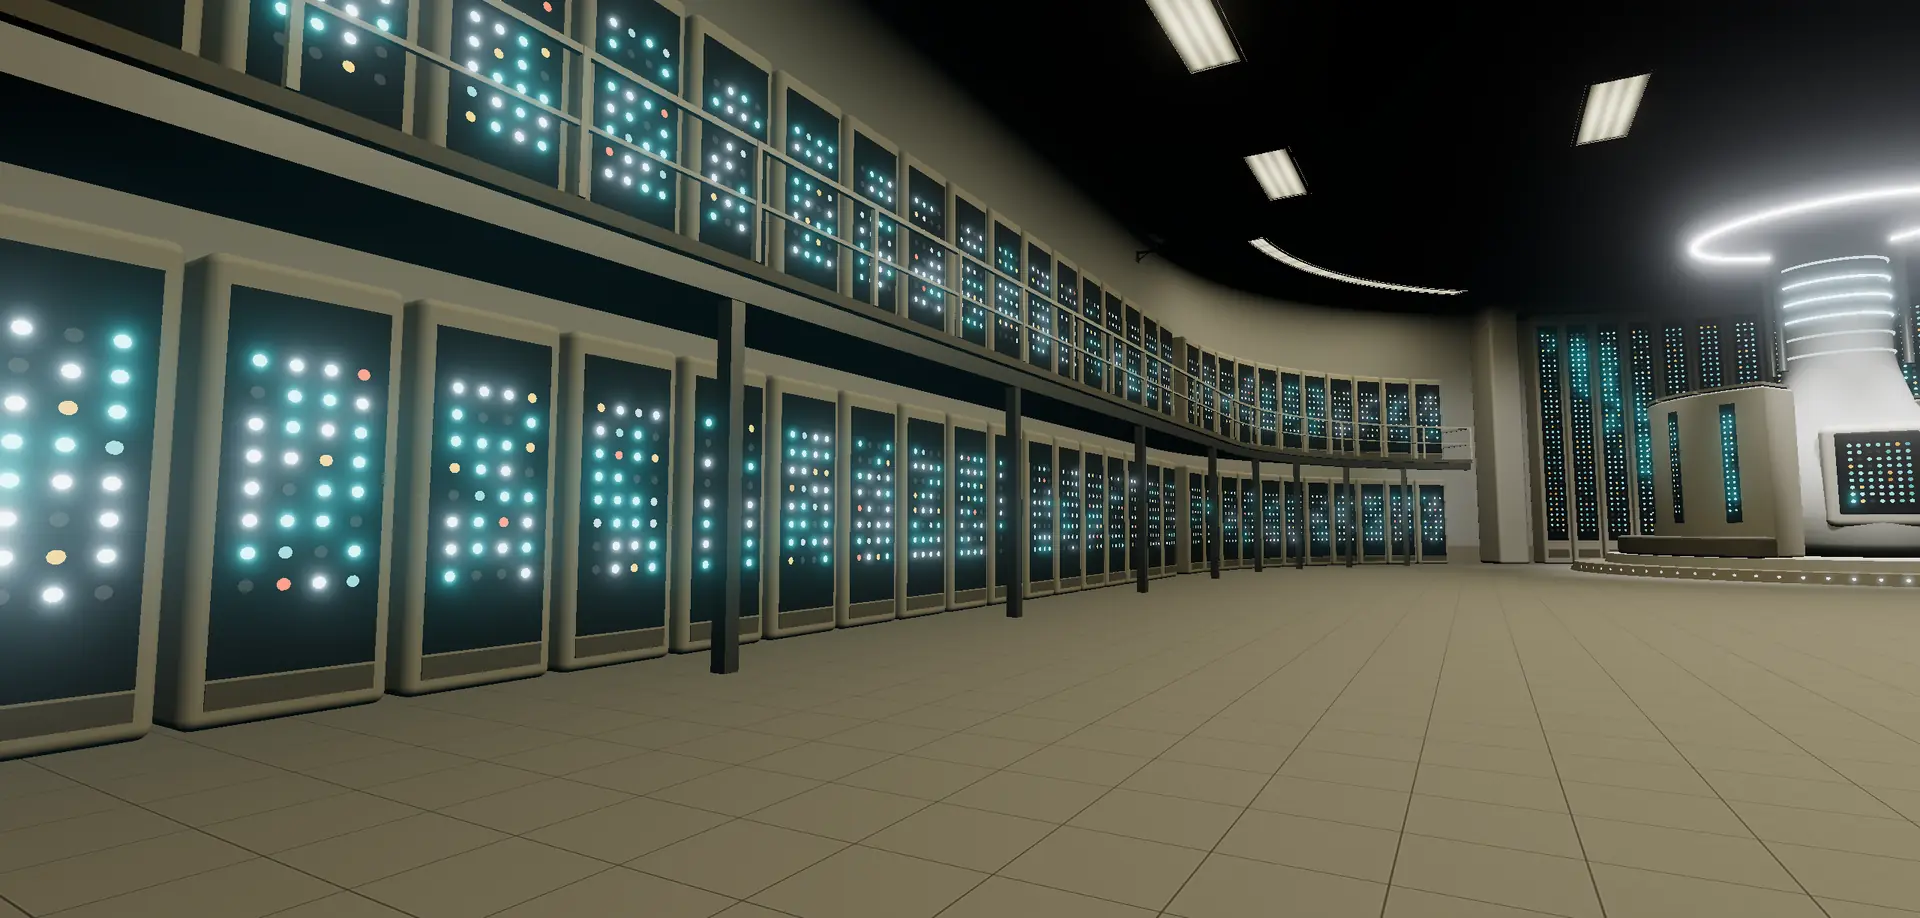
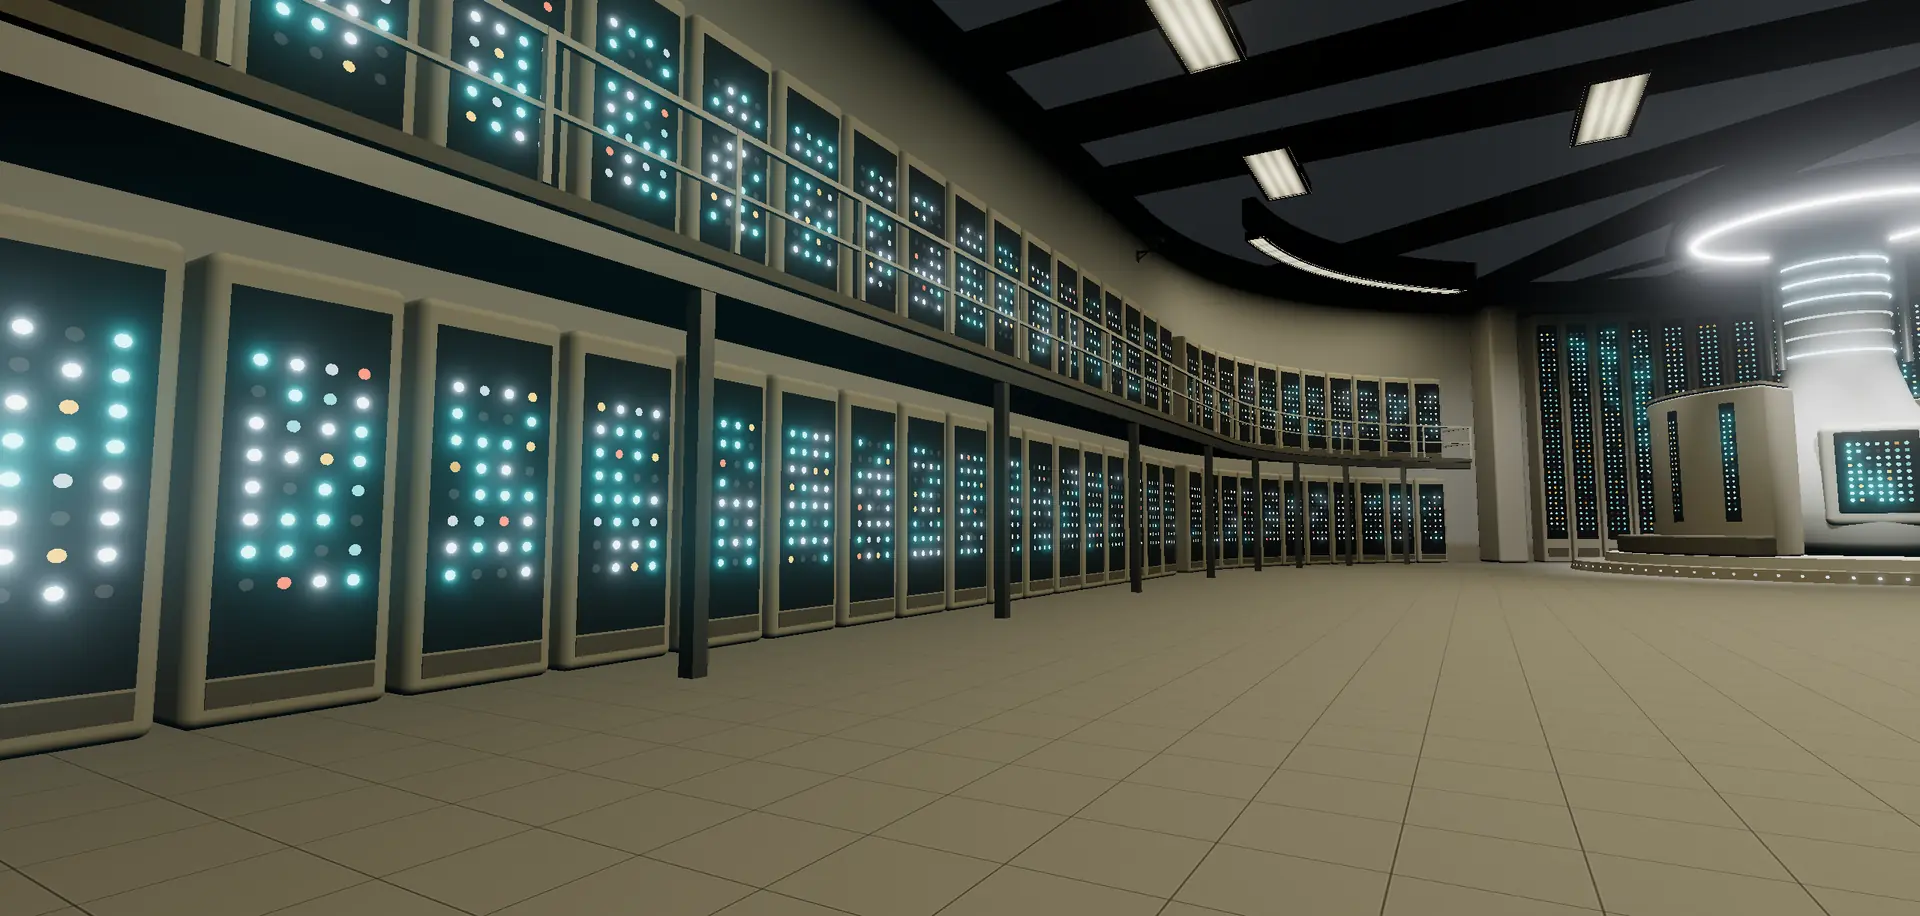
Sloped window bay (glass joins a recessed lower wall to the upper wall), anthracite server ceiling, lighter server light frames, corridor light frame, doors: no top slots and indented bottom slots, floor-level doors under the catwalk doors, keyboard LAMPLIGHT badge, recaptured stills

diff --git a/src/scene/serverRoom.js b/src/scene/serverRoom.js
@@ -3,7 +3,7 @@
 // (supercomputer.js); the banks and catwalks follow the curve and stop short of it.
 import * as THREE from 'three';
 import { Builder } from './builder.js';
-import { SERVER, ROOM } from './layout.js';
+import { SERVER, ROOM, WINDOW_FOOT_Z } from './layout.js';
 import { PALETTE } from './palette.js';
 
 const F = SERVER.floorY;
@@ -80,25 +80,30 @@ export function buildServerRoom(m) {
 
   // ---- shell: one floor and ceiling over the hall and the bay (the corners outside the curved
   // wall are never seen), side walls, the curved bay wall.
-  const floorGeom = new THREE.PlaneGeometry(xMax - xMin, zMax - zBack);
-  b.add(floorGeom, m.serverFloor, [(xMin + xMax) / 2, F, (zBack + zMax) / 2], [-Math.PI / 2, 0, 0]);
-  b.span(m.ceiling, xMin, xMax, C, C + 0.3, zBack - 0.4, zMax);
+  // The floor runs on into the recess under the window (to WINDOW_FOOT_Z); its UVs are stretched with it so the
+  // tile size (texture repeat set for zMax - zBack) doesn't change.
+  const floorZ1 = WINDOW_FOOT_Z;
+  const floorGeom = new THREE.PlaneGeometry(xMax - xMin, floorZ1 - zBack);
+  const uv = floorGeom.attributes.uv;
+  for (let i = 0; i < uv.count; i++) uv.setY(i, uv.getY(i) * ((floorZ1 - zBack) / (zMax - zBack)));
+  b.add(floorGeom, m.serverFloor, [(xMin + xMax) / 2, F, (zBack + floorZ1) / 2], [-Math.PI / 2, 0, 0]);
+  b.span(m.serverCeiling, xMin, xMax, C, C + 0.3, zBack - 0.4, zMax); // anthracite, follows the room power (reveal)
   b.span(m.wallUpper, xMin - 0.3, xMin, F, C, zMin, zMax); // left
   b.span(m.wallUpper, xMax, xMax + 0.3, F, C, zMin, zMax); // right
   arcStrip(b, m.wallUpper, R + 0.15, 0, Math.PI, F, C, 0.3, 2.5); // the bay wall
   arcStrip(b, m.wallLower, R - 0.015, 0, Math.PI, F, F + 0.6, 0.03, 2.5); // its lower band
 
-  // ---- front wall (server-room side), with the command-room window opening
-  const wz0 = FRONT_WALL_Z0, wz1 = ROOM.glassTopZ; // wall slab just outside the glass
-  const ox0 = ROOM.xMin - 0.2, ox1 = ROOM.xMax + 0.2;
+  // ---- front wall (server-room side) with the command-room window as a sloped bay (user: an angled pane should join
+  // two walls in different places, not two points of one thick wall). The upper wall's face is at the glass's head
+  // (z -0.6); the wall under the window is set back to its foot (WINDOW_FOOT_Z), leaving a recess below the glass; the
+  // command room's side walls close the bay as wedge-shaped cheeks and, below its floor, as the recess's sides.
+  const wz0 = FRONT_WALL_Z0, wz1 = wz0 + 0.35; // wall slab behind the face
+  const ox0 = ROOM.xMin - 0.2, ox1 = ROOM.xMax + 0.2; // the command room's outer shell
   b.span(m.wallUpper, xMin, ox0, F, C, wz0, wz1);
   b.span(m.wallUpper, ox1, xMax, F, C, wz0, wz1);
-  b.span(m.wallUpper, ox0, ox1, ROOM.height + 0.1, C, wz0, wz1);
-  b.span(m.wallUpper, ox0, ox1, F, ROOM.sill - 0.05, wz0, 0); // below the sill (solid)
-  // Exterior sill ledge and lintel seen from the server room. (The vertical side posts were removed:
-  // seen from the command room they read as a second, straight window frame behind the tilted one.)
-  b.rbox(m.beige, ox1 - ox0 + 0.5, 0.3, 0.5, 0.08, 0, ROOM.sill - 0.17, wz0 - 0.1);
-  b.rbox(m.beige, ox1 - ox0 + 0.5, 0.3, 0.4, 0.08, 0, ROOM.height + 0.25, wz0 - 0.05);
+  b.span(m.wallUpper, ox0, ox1, ROOM.height + 0.1, C, wz0, wz1); // above the command room's ceiling slab
+  b.span(m.wallUpper, ox0, ox1, F, ROOM.sill - 0.03, WINDOW_FOOT_Z, 0.02); // under the glass (its rail sits on top)
+  for (const [x0, x1] of [[ox0, ROOM.xMin], [ROOM.xMax, ox1]]) b.span(m.wallUpper, x0, x1, F, 0, wz0, WINDOW_FOOT_Z); // recess sides
 
   // ---- ceiling trusses (evenly spaced, one over each fixture row and one between) and fixtures
   for (const z of TRUSS_Z) b.span(m.taupeDark, xMin, xMax, C - 0.75, C, z - 0.18, z + 0.18);
@@ -228,8 +233,8 @@ export function populateServerRoom(b, m, leds) {
 }
 
 /**
- * Two closed prop doors in the entry door's style on the server-room face of the glass wall, one on
- * each catwalk landing, well clear of the data banks along the side walls and of the window
+ * Closed prop doors in the entry door's style on the server-room face of the glass wall: one on each
+ * catwalk landing and one on the floor below each of those, well clear of the data banks along the side walls and of the window
  * surround: the way people would reach the catwalks. Returns the doors (add their .group).
  */
 export function addCatwalkDoors(m, b, HydraulicDoor) {
@@ -245,6 +250,12 @@ export function addCatwalkDoors(m, b, HydraulicDoor) {
     doors.push(d);
     // Landing plinth under the door: hides the frame's lower band below the deck.
     b.span(m.taupeDark, x - 1.0, x + 1.0, CATWALK_Y - 0.36, CATWALK_Y - 0.12, wallFace - 0.36, wallFace);
+    // And a door on the floor level right below it, under the landing (user): the ground-floor way in.
+    const g = new HydraulicDoor(m, { signs: false });
+    g.group.position.set(x, F, wallFace - 0.06);
+    g.group.rotation.y = Math.PI;
+    g.group.name = 'serverFloorDoor';
+    doors.push(g);
   }
   return doors;
 }
@@ -282,5 +293,8 @@ export function buildServerLights(m) {
   const fixtureMax = new THREE.Color(white).multiplyScalar(1.3);
   const fixtures = m.serverFixtureRows.map((mat, row) => ({ mat, max: fixtureMax, row }));
   fixtures.push({ mat: m.serverBayStrip, max: fixtureMax, row: 3 });
+  // The ceiling: no light reaches it (the area lights face down), so it was pure black. It's an anthracite
+  // surface that comes up with the first fixture row (user: dark gray, not total black).
+  fixtures.push({ mat: m.serverCeiling, max: new THREE.Color(0x313437), row: 0 });
   return { group, room, fixtures };
 }

diff --git a/src/scene/door.js b/src/scene/door.js
@@ -2,7 +2,7 @@
 // (Alien: Isolation's Sevastopol doors), in the room's beige/taupe palette:
 //   * a single octagonal panel (chamfered corners) with a small hexagonal window you can
 //     actually see through, raised panel plates, a status light (green + red LEDs), and three
-//     rounded slots near the bottom
+//     rounded slots near the bottom (indented, with dark inserts)
 //   * a uniform-width chamfered octagonal frame with symmetric retro trim (pinstripes, vent slots)
 // It slides UP into the wall/ceiling cavity. Not a heavy blast door: green light flashes with
 // three chirps, a brief hiss as it opens; a brief hiss and soft thud when it closes.
@@ -85,14 +85,13 @@ export class HydraulicDoor {
       });
       g.translate(0, 0, -(FRAME_T - 0.06) / 2);
       b.add(g, m.taupe);
-      // Symmetric retro trim on both faces: two pinstripes following the octagon and a short slot
-      // group centered on top. (The black vent grilles on the left and right bands were removed at
-      // the user's request; this class also builds the catwalk doors, so they lost them too.)
+      // Symmetric retro trim on both faces: two pinstripes following the octagon. (The black vent grilles on the
+      // left and right bands and the three slots on top were removed at the user's request; this class also builds
+      // the catwalk doors, so they lost them too.)
       for (const face of [-1, 1]) {
         const z = face * (FRAME_T / 2);
         plate(b, m.taupeDark, ring(0.07, 0.1), 0.005, z, face);
         plate(b, m.beigeLight, ring(0.18, 0.2), 0.005, z, face);
-        for (const x of [-0.12, 0, 0.12]) b.rbox(m.grille, 0.024, 0.1, 0.012, 0.006, x, H + FRAME_W * 0.55, z + face * 0.004);
       }
       this.group.add(b.build({ name: 'doorFrame', castShadow: true, receiveShadow: true }));
     }
@@ -104,6 +103,21 @@ export class HydraulicDoor {
       const win = { cx: 0, cy: H * 0.79, w: 0.42, h: 0.28 };
       const shape = octagon(W, H, C);
       shape.holes.push(hexagon(win.cx, win.cy, win.w, win.h, new THREE.Path()));
+      // Three rounded slots near the bottom, INDENTED like the monitor's chin vents (user): real holes in the panel
+      // (the extrusion gives them beveled beige walls) with a dark insert at the panel's middle, seen from both faces.
+      const slot = (x, path) => {
+        path.moveTo(x - 0.045, 0.2);
+        path.lineTo(x + 0.045, 0.2);
+        path.lineTo(x + 0.045, 0.395);
+        path.absarc(x, 0.395, 0.045, 0, Math.PI, false);
+        path.closePath();
+        return path;
+      };
+      for (const x of [-0.2, 0, 0.2]) {
+        shape.holes.push(slot(x, new THREE.Path()));
+        b.add(new THREE.ExtrudeGeometry(slot(x, new THREE.Shape()), { depth: 0.012, bevelEnabled: false, curveSegments: 8 }),
+          m.grille, [0, 0, -0.006]);
+      }
       const g = new THREE.ExtrudeGeometry(shape, {
         depth: PANEL_T - 0.016, bevelEnabled: true, bevelThickness: 0.008, bevelSize: 0.008, bevelSegments: 2, curveSegments: 4,
       });
@@ -122,16 +136,6 @@ export class HydraulicDoor {
         // Central plate with the status light housing.
         plate(b, m.beige, octagon(0.84, 0.6, 0.12, H * 0.37), 0.01, z, face);
         b.rbox(m.grille, 0.17, 0.065, 0.02, 0.01, 0, H * 0.37 + 0.44, z + face * 0.012);
-        // Three rounded slots near the bottom.
-        for (const x of [-0.2, 0, 0.2]) {
-          const s = new THREE.Shape();
-          s.moveTo(x - 0.05, 0.2);
-          s.lineTo(x + 0.05, 0.2);
-          s.lineTo(x + 0.05, 0.46);
-          s.absarc(x, 0.46, 0.05, 0, Math.PI, false);
-          s.closePath();
-          plate(b, m.grille, s, 0.006, z, face);
-        }
       }
       this.panel.add(b.build({ name: 'doorPanel', castShadow: true, receiveShadow: true }));
 

diff --git a/src/scene/commandRoom.js b/src/scene/commandRoom.js
@@ -41,7 +41,7 @@ export function buildCommandRoom(m, leds) {
   const RAIL_Y0 = sill - 0.04, RAIL_Y1 = sill + 0.01;
 
   // ---- floor + walkway mat
-  b.span(m.floor, xMin, xMax, -0.06, 0, zTop, zBack);
+  b.span(m.floor, xMin, xMax, -0.06, 0, 0, zBack); // starts at the glass foot: in front of it is the server room's recess
   // The walkway mat ends in a rounded tip short of the desk, and its white trim follows the curve.
   {
     const hw = 0.75, trimW = 0.05;
@@ -164,8 +164,8 @@ export function buildCommandRoom(m, leds) {
   b.rbox(m.taupe, xMax - xMin, sill - 0.03, 0.5, 0.035, 0, (sill - 0.03) / 2, 0.25);
   b.span(m.taupeDark, xMin, xMax, 0, 0.1, 0.5, 0.53); // baseboard along the front, at the foot of the ledge
   b.rbox(m.beigeLight, xMax - xMin, 0.05, 0.58, 0.02, 0, sill - 0.015, 0.21);
-  // Under the ledge, between sill and floor at the very front.
-  b.span(m.wallUpper, xMin, xMax, -0.06, sill - 0.03, ROOM.glassTopZ, 0);
+  // (The filler under the sill out to the glass top is gone: that space is now the server room's recess under the
+  // sloped window bay; serverRoom.js builds the wall under the glass.)
 
   const gh = H - sill;
   const tilt = Math.atan2(-zTop, gh); // top leans away from the viewer
@@ -194,6 +194,11 @@ export function buildCommandRoom(m, leds) {
   b.span(m.wallLower, dw - 0.025, dw, 0, RAIL_Y0, cz0, cz1);
   b.span(m.wallUpper, -dw, dw, 0, ch, cz1, cz1 + 0.2);
   b.span(m.corridorPanel, -0.45, 0.45, ch - 0.01, ch - 0.002, 9.6, 11.2);
+  // Beige frame around the corridor light, like the command-room fixtures (user).
+  b.span(m.beige, -0.51, 0.51, ch - 0.03, ch - 0.011, 9.54, 9.6);
+  b.span(m.beige, -0.51, 0.51, ch - 0.03, ch - 0.011, 11.2, 11.26);
+  b.span(m.beige, -0.51, -0.45, ch - 0.03, ch - 0.011, 9.6, 11.2);
+  b.span(m.beige, 0.45, 0.51, ch - 0.03, ch - 0.011, 9.6, 11.2);
 
   const group = b.build({ name: 'commandRoom', receiveShadow: true, castShadow: true });
   // Glass must not cast shadows or write depth.

diff --git a/src/scene/materials.js b/src/scene/materials.js
@@ -164,8 +164,11 @@ export function createMaterials(maxAnisotropy = 4) {
   m.serverFixtureRows = [0, 1, 2, 3].map(() => new THREE.MeshBasicMaterial({ color: 0x000000, map: serverDiffuser, toneMapped: false }));
   // Curved strip fixtures around the north bay (chord pieces whose long axis is the texture's u).
   // Light grey frames around the server-room fixtures: a slight contrast with that ceiling (user).
-  m.fixtureFrame = new THREE.MeshStandardMaterial({ color: 0xc4c3bf, roughness: 0.88, metalness: 0 });
+  // Lightened a couple of shades of grey (was 0xc4c3bf; user). Server room only: the command room's frames are beige.
+  m.fixtureFrame = new THREE.MeshStandardMaterial({ color: 0xdcdbd7, roughness: 0.88, metalness: 0 });
   m.fixtureFrame.shadowSide = THREE.FrontSide;
+  // Server-room ceiling: unlit (black) until the reveal brings it up to anthracite with the first row.
+  m.serverCeiling = new THREE.MeshBasicMaterial({ color: 0x000000, toneMapped: false });
   m.serverBayStrip = new THREE.MeshBasicMaterial({ color: 0x000000, map: diffuserTexture(512, 110), toneMapped: false });
   m.coreFixture = new THREE.MeshBasicMaterial({ color: 0x000000, toneMapped: false });
   // One material per light band on the core column (0 = lowest) so they climb in sequence.

diff --git a/src/scene/layout.js b/src/scene/layout.js
@@ -16,12 +16,16 @@ export const CORRIDOR = { halfW: 1.2, height: 3.5, zStart: 8.2, zEnd: 12 };
 // Entrance door (door.js, Alien: Isolation-style octagonal panel in a chamfered frame) in the back wall at z 8.1.
 export const DOOR = { halfW: 0.65, height: 2.1, z: 8.1, chamfer: 0.3, frameHalfW: 0.95, frameHeight: 2.4 }; // frame band 0.3 m all round
 
+// Server-room face of the wall under the command-room window: flush with the front of the glass's bottom rail.
+export const WINDOW_FOOT_Z = -0.09;
 export const SERVER = {
   floorY: -4.5,
   ceilY: 5.5, // lowered from 9 at the user's request (10 m tall hall)
   xMin: -16, xMax: 16,
   zMin: -28, zMax: ROOM.glassTopZ, // rectangular hall
-  frontWallZ: -0.95, // server-room face of the wall holding the command-room glass (it spans -0.95 .. -0.6)
+  // Server-room face of the wall above and beside the window = the glass's top edge (ROOM.glassTopZ), so the sloped glass
+  // runs from the recessed wall under it (at its foot, WINDOW_FOOT_Z) up to this wall (at its head): a sloped window bay.
+  frontWallZ: -0.6,
   // The north end is a half-circle bay (user request): centered on the hall's back line, as wide
   // as the hall, so it reaches 16 m further north. The supercomputer is set into its far wall.
   apseR: 16,

diff --git a/src/scene/keyboard.js b/src/scene/keyboard.js
@@ -5,6 +5,7 @@
 import * as THREE from 'three';
 import { RoundedBoxGeometry } from 'three/addons/geometries/RoundedBoxGeometry.js';
 import { Builder } from './builder.js';
+import { badgeMaterial } from './mouse.js';
 import { PALETTE } from './palette.js';
 
 export const U = 0.0205; // 1 key unit in meters (slightly chunky, 1980s board)
@@ -167,11 +168,13 @@ export function buildKeyboard(m) {
     geom.dispose();
   }
 
-  const group = b.build({ name: 'keyboard', castShadow: true, receiveShadow: true });
-
   // Lock lights sit in the top band above the numpad.
   const padCenterX = -W / 2 + (18.5 + 2) * U;
   const localLeds = [-1, 0, 1].map((i) => [padCenterX + i * U * 1.1, caseH + 0.0006, -caseD / 2 + margin + topBand * 0.45]);
+  // LAMPLIGHT badge (same as the mouse's) in the top band at the left, mirroring the leftmost lock light (user).
+  b.add(new THREE.PlaneGeometry(0.0343, 0.0098), badgeMaterial(), [-localLeds[0][0], caseH + 0.0004, localLeds[0][2]], [-Math.PI / 2, 0, 0]);
+
+  const group = b.build({ name: 'keyboard', castShadow: true, receiveShadow: true });
 
   return { group, localLeds, caseW, caseD };
 }

diff --git a/src/scene/mouse.js b/src/scene/mouse.js
@@ -35,8 +35,8 @@ function plate(w, d, r, h, bevel) {
 }
 
 let badgeMat = null;
-/** Small oval maker's badge on the palm rest (the site's own LAMPLIGHT mark, like the keyboard's printed legends). */
-function badgeMaterial() {
+/** Small oval LAMPLIGHT maker's badge: on the mouse's palm rest and the keyboard's top band (shared material). */
+export function badgeMaterial() {
   if (badgeMat) return badgeMat;
   const c = document.createElement('canvas');
   c.width = 336; // wide enough that the whole word sits inside the oval (user)

diff --git a/CLAUDE.md b/CLAUDE.md
@@ -413,6 +413,29 @@ nearest-first (tube sounds at 100/60/40 % per row), back wash +0.3 s, fans fade 
 - **Desk phones removed** (user: not enough of an aesthetic addition for the effort). `scene/phones.js` was deleted;
   the last version (curved handset with earpiece/mouthpiece blocks) is in commit 96ed0b6 if they ever come back.
 
+## Change round 13 (2026-11-11): sloped window bay, ceiling, frames, doors, keyboard badge
+- **Sloped window bay** (user: an angled pane should join two walls in different places, not two points of one thick
+  wall). `SERVER.frontWallZ` is now **-0.6** = `ROOM.glassTopZ`: the server room's wall face above and beside the window
+  is at the glass's head (slab -0.6..-0.25 behind it). The wall under the window is set back to the glass's foot
+  (`WINDOW_FOOT_Z` -0.09, flush with the bottom rail's front; it tops out at sill - 0.03 and the rail sits on it), which
+  leaves a recess under the glass; the server floor runs into it (UVs stretched so tiles keep their size), and its sides
+  are the command room's side walls carried down to the server floor. Above the floor those side walls close the bay as
+  wedge-shaped cheeks. The exterior sill and lintel beams are gone, the command room's under-sill filler is gone, and its
+  floor slab now starts at the glass foot (z 0; it used to poke into the recess as a ledge). Catwalk landings and doors
+  moved 0.35 m with the wall face. Command-room interior unchanged.
+- **Server ceiling** is anthracite (`m.serverCeiling`, MeshBasic 0x313437 at full power, black when unpowered, comes up
+  with fixture row 0 in the reveal): no light ever reached the old ceiling, so it rendered pure black.
+- **Server-room light frames** lighter grey (`m.fixtureFrame` 0xc4c3bf -> 0xdcdbd7; server room only, the command room's
+  frames are beige and untouched).
+- **Corridor light** has the same beige frame as the command-room fixtures.
+- **Doors** (`HydraulicDoor`, so the entry door and every prop door): the three black slots on top of the frame are
+  removed; the three bottom slots are real indents now (holes in the panel with beveled walls and a dark insert at the
+  panel's middle, like the monitor's chin vents).
+- **Floor-level doors** under each catwalk door (same prop door, on the server floor at the wall face, under the landing).
+- **Keyboard badge:** the mouse's LAMPLIGHT badge (`badgeMaterial()`, exported from mouse.js) in the keyboard's top band
+  at the left, mirroring the leftmost lock light's position.
+- Welcome stills recaptured (ceiling, frames, doors changed).
+
 ## Change round 12 (2026-11-11): pedestal clearance, dark lenses, panel grids, mouse
 - **Supercomputer moved forward:** `CORE` z -40.5 -> **-36.8** (layout.js). Its pedestal's lower step (r 6.1) used to run
   into the wall towers (fronts at z -43.2); now there's a 0.3 m gap and every tower stands on the floor. The room's shape
